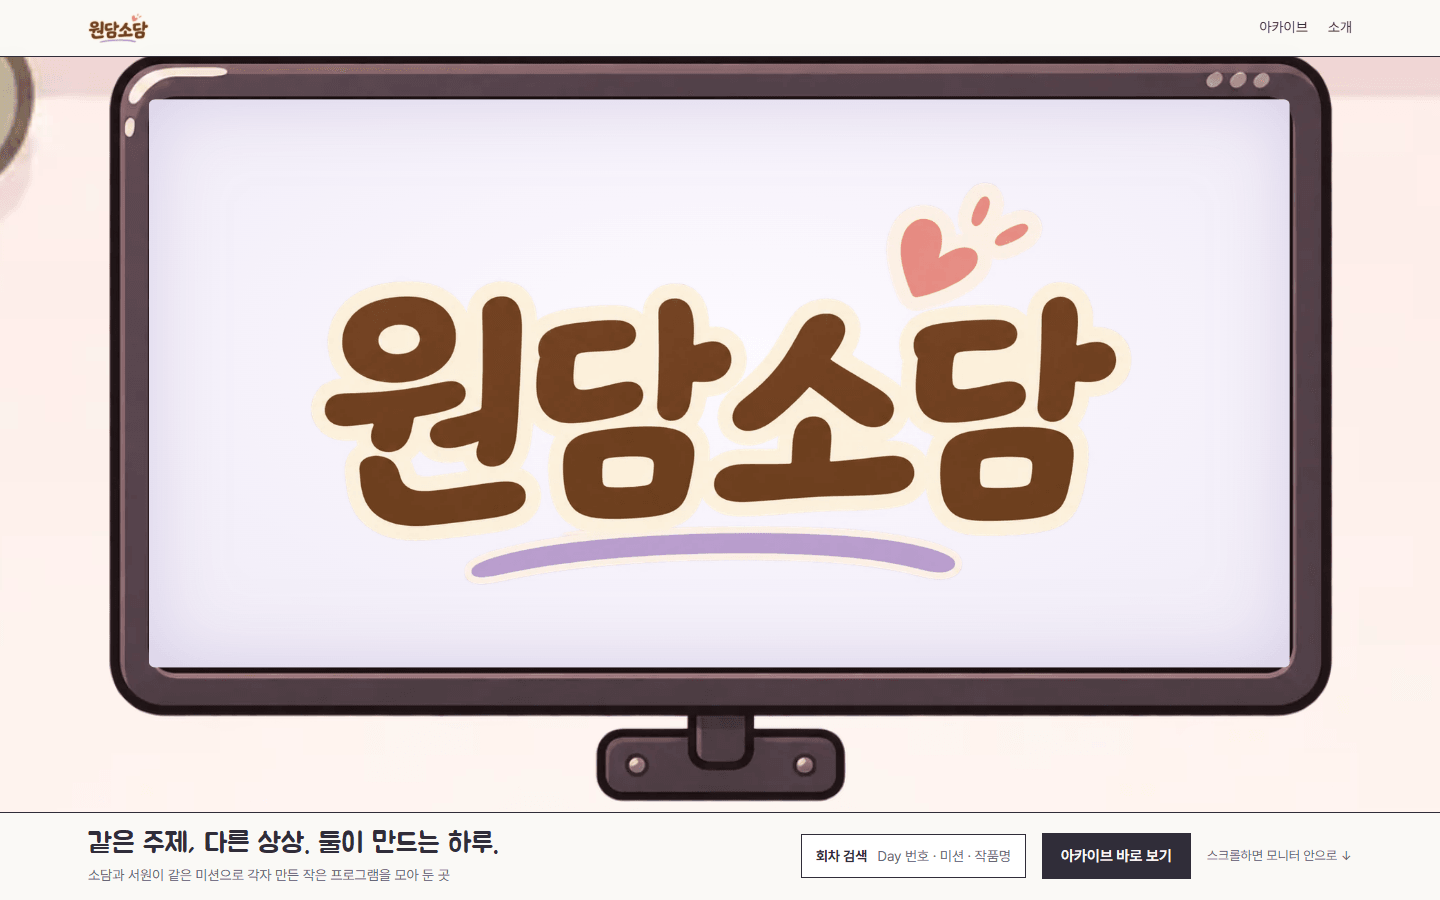
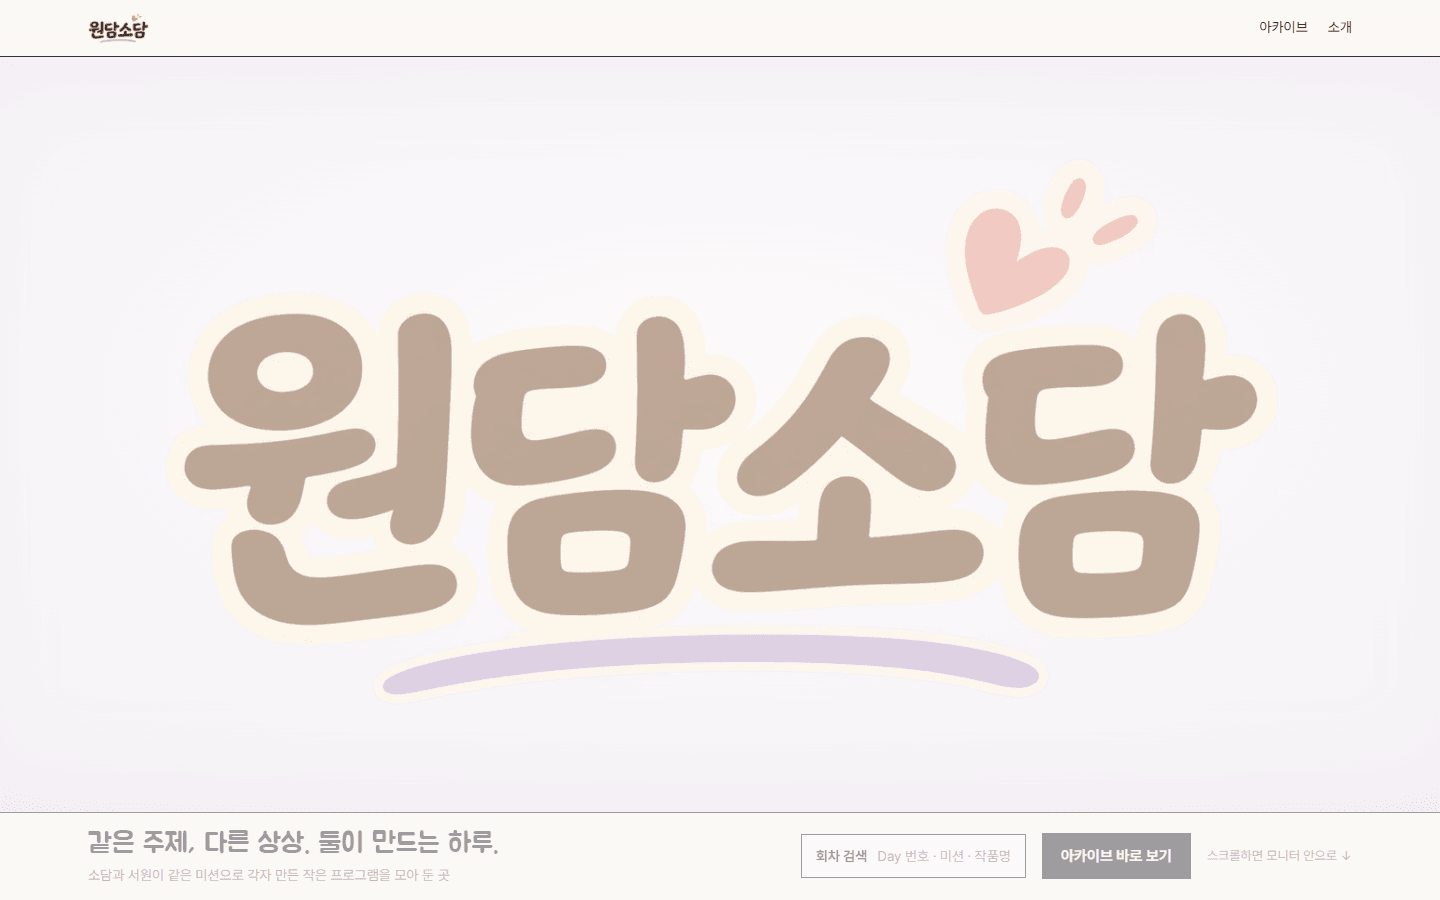
인트로 줌 이후 아카이브 전환 간격 조정, 토글/스킵링크 표시 버그 수정

diff --git a/workspaces/archive-site/src/components/intro/intro-controller.ts b/workspaces/archive-site/src/components/intro/intro-controller.ts
@@ -108,7 +108,7 @@ function setupZoom(root: HTMLElement, stage: HTMLElement, fill: HTMLElement, vie
   function update() {
     ticking = false;
     const p = progress();
-    const e = easeInOut(clamp01(p / 0.92));
+    const e = easeInOut(clamp01(p / 0.8));
     const z = 1 + (S - 1) * e;
     // 화면 중심 C 가 뷰포트 중심 V 로 이동하도록
     const cx = C.x + (V.x - C.x) * e;
@@ -117,7 +117,7 @@ function setupZoom(root: HTMLElement, stage: HTMLElement, fill: HTMLElement, vie
     // stage 의 transform-origin 은 0 0 기준으로 계산 (CSS에서 data-zoomable 시 원점 변경)
     stage.style.setProperty('--tx', `${(cx - z * C.x).toFixed(2)}px`);
     stage.style.setProperty('--ty', `${(cy - z * C.y).toFixed(2)}px`);
-    const f = clamp01((p - 0.78) / 0.2);
+    const f = clamp01((p - 0.5) / 0.3);
     fill.style.setProperty('--fill', f.toFixed(3));
     root.style.setProperty('--caption-fade', (1 - f).toFixed(3));
     root.toggleAttribute('data-zooming', p > 0.01);
